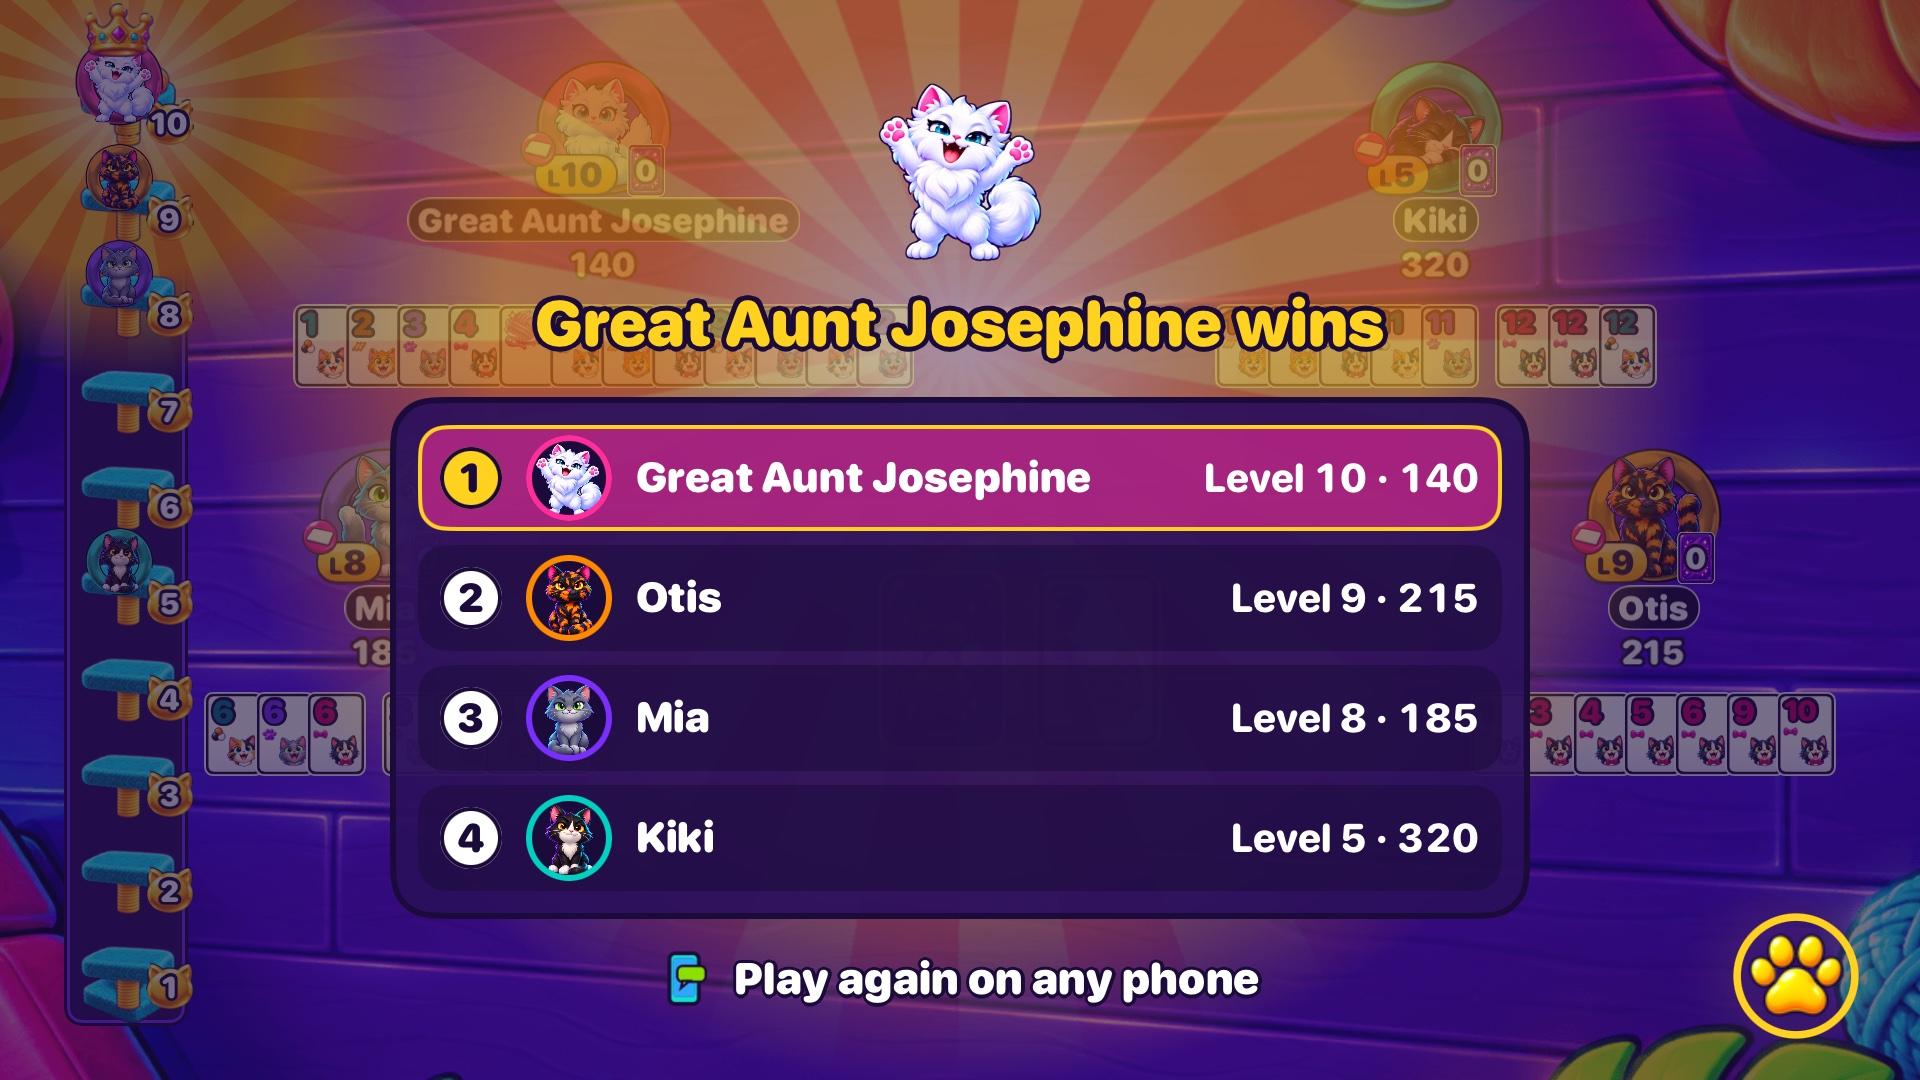
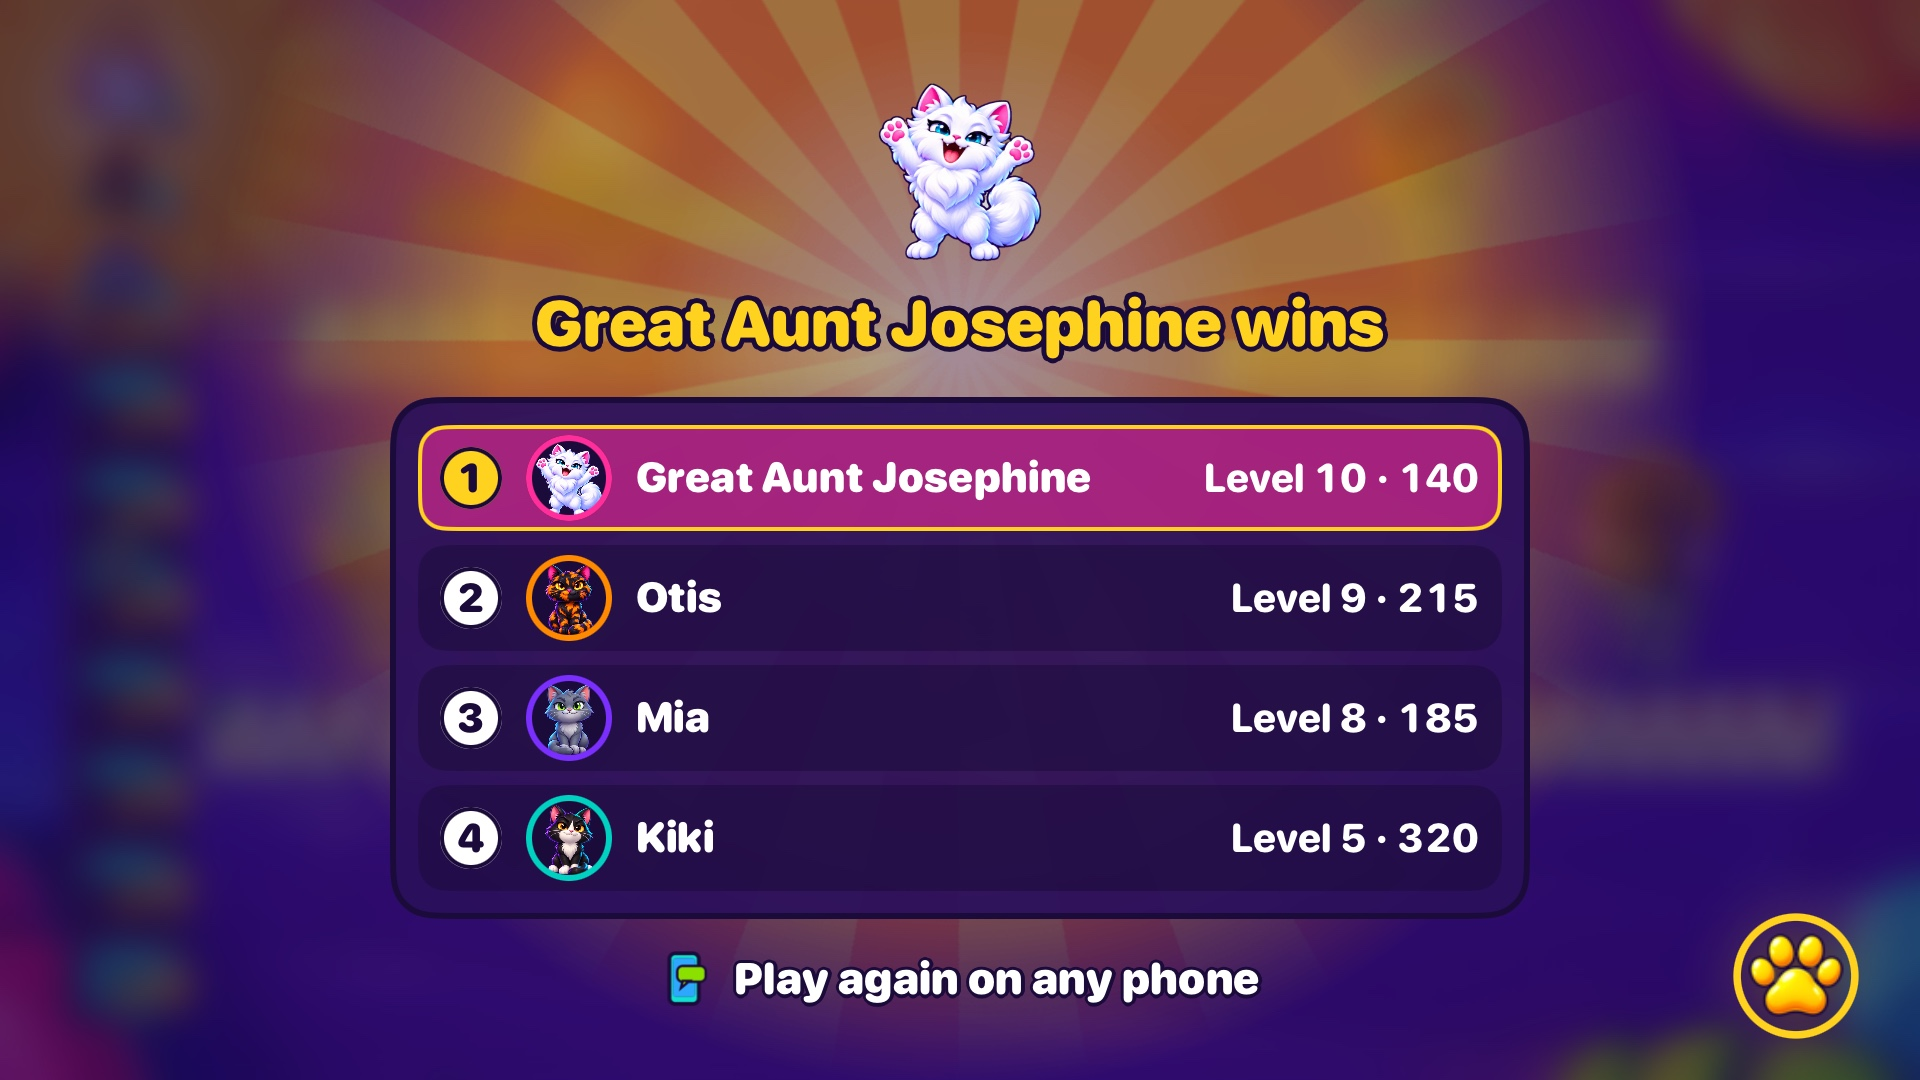
Apple TV: every seat's score shows on the TV
A TV table can lay itself out twice before its pictures are drawn: once at the
scene's first size, as the game arrives, and again at the TV's. Both ask for
each seat's score and the turn banner, and the two pictures land in either
order. The score took any picture of the same score, and the banner any of the
same turn, so when the first layout's picture landed last it replaced the
right one with a tiny copy in the wrong place: that seat showed no score. Each
now takes only the picture it asked for last, placed where the name is when it
lands.

Behind game over the table now goes soft and darker, so the winner and the
places read on their own.

diff --git a/apps/play-ios/PounceTVTests/TVTableTests.swift b/apps/play-ios/PounceTVTests/TVTableTests.swift
@@ -114,6 +114,55 @@ struct TVTableTests {
         #expect(scene.bottomSeat == 0)
     }
 
+    // MARK: pictures that land late
+
+    /// A table can get its game before its view sizes it: it lays out once at the scene's first
+    /// size, then again at the TV's, and asks for each seat's score and the banner at both sizes.
+    /// The two pictures are drawn off the main thread and land in either order. Here the TV-size
+    /// ones are drawn already and the first-size ones land last: each seat must still show the
+    /// TV-size score under its name, and the banner the TV-size pill.
+    @Test func aPictureForAnEarlierLayoutNeverReplacesTheCurrentOne() async throws {
+        let store = Self.screenStore()
+        var room = DemoFixtures.hitTable()
+        room.seats = room.seats.map { var s = $0; s.yours = false; return s }
+        room.game!.hands = [:]
+        room.game!.turn = 1
+        // Scores no other test draws, so nothing is cached for them.
+        room.game!.scores = [901, 902, 903, 904]
+        let seats = room.seats.count
+        let tv = TableLayout(tv: Self.tv, insets: .zero, seats: seats)
+        let words = TVSeatWords(.zero, unit: tv.tvUnit)
+        let names = SeatInfo.names(room)
+        let big = room.game!.scores.map(words.piece)
+        let bigBanner = TVBanner.piece(name: names[1], seat: 1, banner: tv.banner, room: tv.bannerRoom, unit: tv.tvUnit)
+        TVArt.shared.warm(big + [bigBanner])
+        #expect(await Self.soon { (big + [bigBanner]).allSatisfy { TVArt.shared.ready($0) != nil } })
+
+        let scene = TableScene(store: store)  // still its first size, 390 x 844
+        let first = TableLayout(tv: scene.size, insets: .zero, seats: seats)
+        let small = room.game!.scores.map(TVSeatWords(.zero, unit: first.tvUnit).piece)
+        let smallBanner = TVBanner.piece(name: names[1], seat: 1, banner: first.banner, room: first.bannerRoom, unit: first.tvUnit)
+        #expect(small.allSatisfy { TVArt.shared.ready($0) == nil })
+        store.handle(.message(.snapshot(protocol: PounceKit.protocolVersion, seq: 1, room: room)))
+        await scene.play(.reconcile)  // lays out at the first size: asks for the small pictures
+        scene.size = Self.tv  // sized: asks for the big ones, drawn already
+        // The small ones land now, after the big ones.
+        #expect(await Self.soon { (small + [smallBanner]).allSatisfy { TVArt.shared.ready($0) != nil } })
+        try await Task.sleep(for: .milliseconds(100))
+
+        for seat in 0..<seats {
+            let node = try #require(scene.opponents.score(for: seat))
+            let want = try #require(TVArt.shared.ready(big[seat]))
+            #expect(!node.isHidden, "seat \(seat) shows no score")
+            #expect(node.texture === want, "seat \(seat) shows a score picture from an earlier layout")
+            #expect(node.size == want.size(), "seat \(seat)'s score is drawn at the wrong size")
+            let tag = try #require(scene.opponents.tag(for: seat))
+            #expect(abs(node.position.x - tag.position.x) < 0.5 && node.position.y < tag.position.y, "seat \(seat)'s score isn't under its name")
+        }
+        let pill = try #require(scene.banner.children.compactMap { $0 as? SKSpriteNode }.first)
+        #expect(pill.texture === TVArt.shared.ready(bigBanner), "the banner shows a picture from an earlier layout")
+    }
+
     // MARK: frame rate
 
     /// On the TV each game's table asks for the screen's top frame rate and, once nothing moves,

diff --git a/apps/play-ios/Pounce/Table/TVTable.swift b/apps/play-ios/Pounce/Table/TVTable.swift
@@ -270,6 +270,9 @@ final class TVBanner: SKNode {
     private let cat = SKSpriteNode()
     /// What shows now: a seat's turn (its seat, name and cat), "Reconnecting", or nothing.
     private(set) var shown: Shown?
+    /// The picture the banner asked for last (`TVArt.Piece.key`): the only one it takes when it
+    /// lands. The same words at an earlier layout are another picture, and may land later.
+    private var wanted: String?
 
     enum Shown: Equatable {
         case turn(seat: Seat, name: String, cat: Int)
@@ -299,6 +302,7 @@ final class TVBanner: SKNode {
     func show(_ next: Shown?, banner: CGRect, room: CGRect, unit: CGFloat, pop: Bool, reduceMotion: Bool) -> (SKAction, SKNode)? {
         shown = next
         guard let next, banner.width > 0 else {
+            wanted = nil
             isHidden = true
             return nil
         }
@@ -313,9 +317,11 @@ final class TVBanner: SKNode {
         case .reconnecting:
             piece = Self.lost(banner: banner, unit: unit)
         }
+        let key = piece.key
+        wanted = key
         TVArt.shared.whenReady([piece]) { [weak self] textures in
-            // Still what the banner shows (nothing newer asked for since).
-            guard let self, self.shown == next, let texture = textures.first else { return }
+            // Still the picture the banner wants (nothing newer asked for since, at any layout).
+            guard let self, self.wanted == key, let texture = textures.first else { return }
             self.apply(texture, next, unit: unit)
             self.drawLanded()
         }
@@ -434,6 +440,12 @@ struct TVSeatWords {
 
     /// Puts `score` (nil hides it) on `node`, just under `tag`. A score whose picture isn't drawn yet
     /// shows the moment it is (the last one stays till then).
+    ///
+    /// The node takes only the picture it asked for last (its name is that picture's key): a table
+    /// can lay out twice before its pictures land (at the scene's first size, then the TV's), and
+    /// the same score at the other size is another picture that may land after this one. Where it
+    /// goes is read from the name pill when it lands, so it is never put where an earlier layout
+    /// had it.
     @MainActor
     func place(score: Int?, on node: SKSpriteNode, under tag: SKSpriteNode) {
         guard let score else {
@@ -441,18 +453,18 @@ struct TVSeatWords {
             node.name = nil
             return
         }
-        let want = "score|\(score)"
+        let piece = piece(score)
+        let want = piece.key
         node.name = want
-        let below = CGPoint(x: tag.position.x, y: tag.position.y - tag.size.height / 2)
         let unit = unit
-        TVArt.shared.whenReady([piece(score)]) { [weak node] textures in
-            guard let node, node.name == want, let texture = textures.first else { return }
+        TVArt.shared.whenReady([piece]) { [weak node, weak tag] textures in
+            guard let node, let tag, node.name == want, let texture = textures.first else { return }
             node.isHidden = false
             if node.texture !== texture {
                 node.texture = texture
                 node.size = texture.size()
             }
-            node.position = CGPoint(x: below.x, y: below.y - node.size.height / 2 + 2 * unit)
+            node.position = CGPoint(x: tag.position.x, y: tag.position.y - tag.size.height / 2 - node.size.height / 2 + 2 * unit)
             node.drawLanded()
         }
     }

diff --git a/apps/play-ios/PounceTV/Shell/TVRoot.swift b/apps/play-ios/PounceTV/Shell/TVRoot.swift
@@ -94,9 +94,16 @@ struct TVRoot: View {
             }
         case .table, .over:
             if let table = model.table {
+                let over = model.phase == .over
                 ZStack {
+                    // Behind game over the table recedes: softened out of focus, so the title and
+                    // the places read alone over it (the scrim darkens it too).
                     TableHost(table: table)
-                    if model.phase == .over, let room = table.store.room {
+                        .blur(radius: over ? 18 : 0, opaque: true)
+                        .animation(.easeOut(duration: 0.4), value: over)
+                        // The whole screen, not the safe area, or the blur stops at its edge.
+                        .ignoresSafeArea()
+                    if over, let room = table.store.room {
                         // Scrim, sunburst and panel fade as one layer.
                         GameOverView(room: room)
                             .overlay(alignment: .topLeading) {

diff --git a/apps/play-ios/PounceTV/Shell/GameOverView.swift b/apps/play-ios/PounceTV/Shell/GameOverView.swift
@@ -14,7 +14,7 @@ struct GameOverView: View {
         let title = TVStandings.title(room)
         ZStack {
             // The sunburst is bigger than the screen: an overlay, so it never sizes the screen.
-            Palette.ink.opacity(0.6)
+            Palette.ink.opacity(0.7)
                 .overlay {
                     Image(ArtName.sunburst)
                         .resizable()
